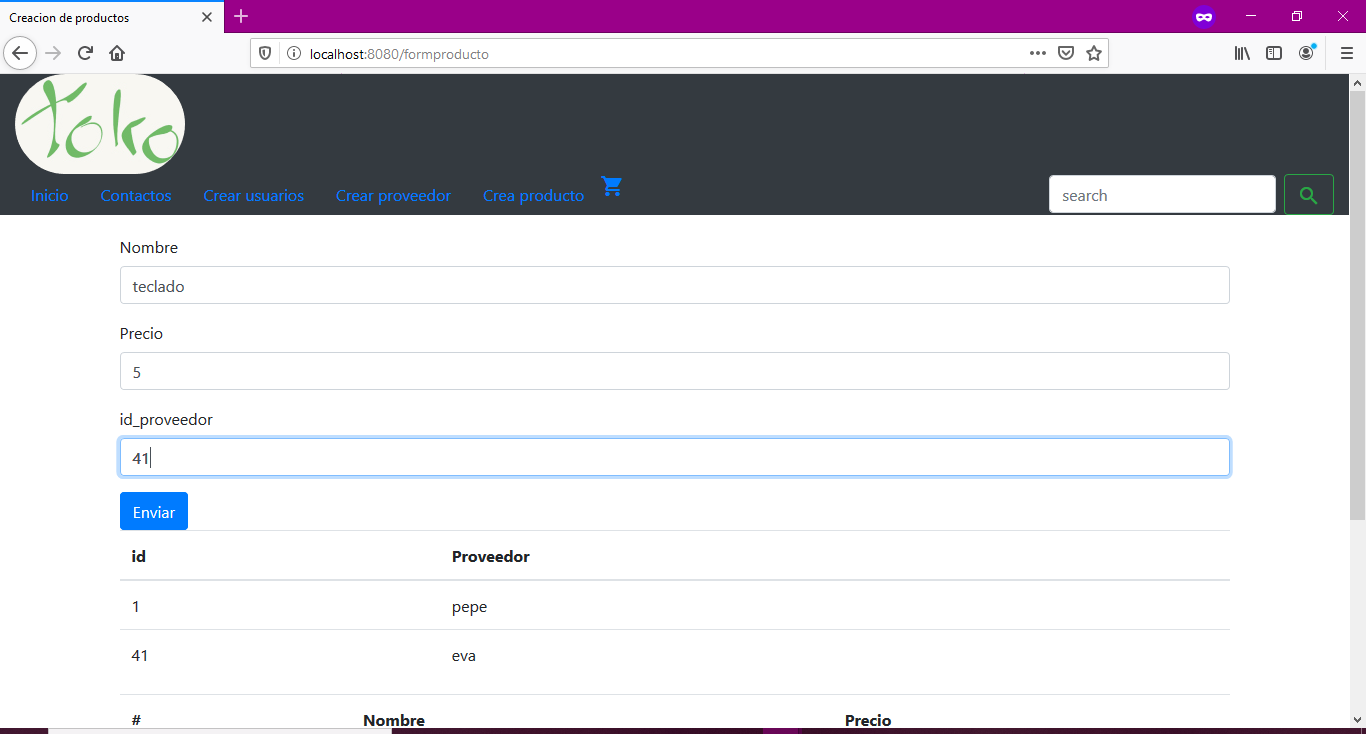
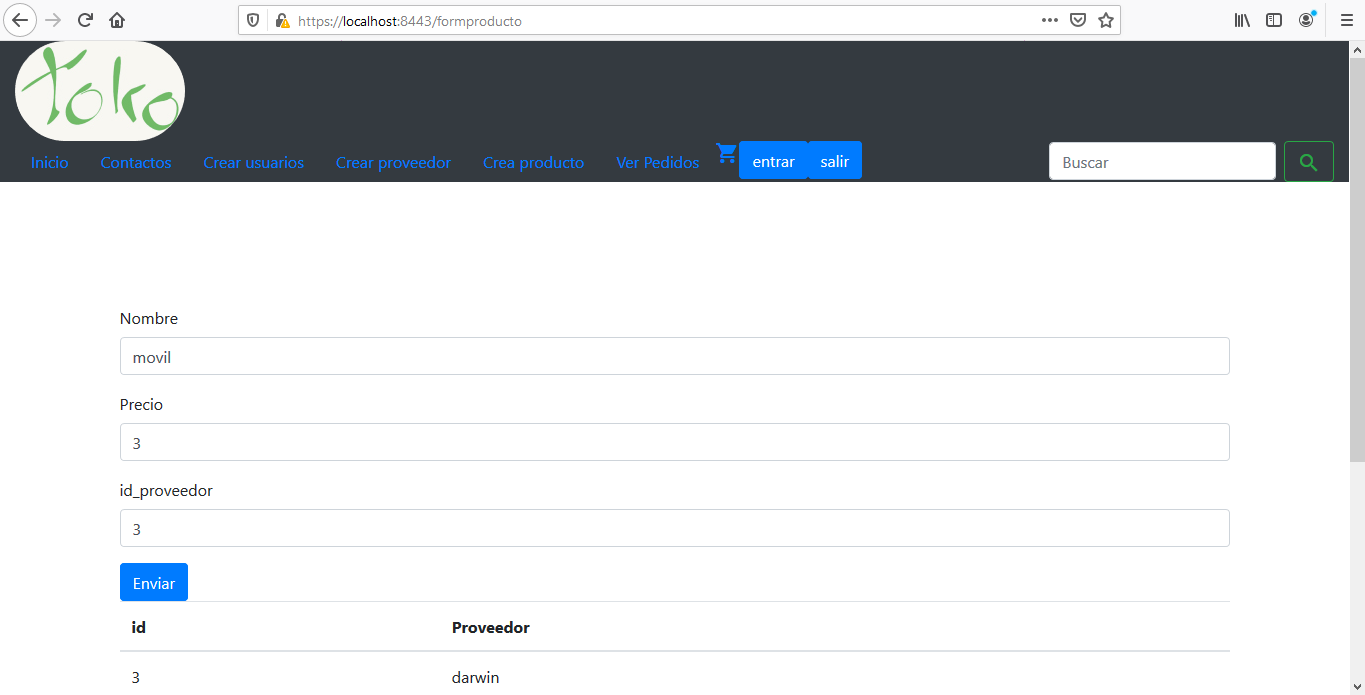
proveedor

diff --git a/README.md b/README.md
@@ -14,7 +14,7 @@ la compra si hay stock o debera esperar a que la empresa reciba el producto, per
 - Producto(público): Objetos disponibles para su compra y el stock de los mismos
 
 
-## Descripción del servicio interno.
+## *Descripción del servicio interno.*
 
 proceso de pago, pedido.
 **- Proceso de pago: En el momento de ultimar la compra y el usuario esta logueado, el servicio interno envia un correo al usuario, informandole del pedido. Con una factura en pdf.**
@@ -38,6 +38,7 @@ https://trello.com/b/QmLREBu5/practica-dad
 
 - Común a todas las vistas:
 **Las paginas tienen implementada seguridad CSRF de modo que si alguien intenta suplantarnos, no le llegue la informacion.**
+**En todas las paginas ha sido incluido un boton para entrar a la identificacion de usuario, y para salir de la misma**
 En todas las vistas se ve una barra de navegación arriba la cual está compuesta por una serie de botones y un buscador con su botón asociado.
 Se ve el logotipo de la empresa (toko), el cual te lleva al index al pulsarlo desde cualquier página.
 En orden de izquierda a derecha se ven los botones, y la vista a la que te llevan: Inicio(index), Contacto(contacto), crear usuario(crud), crear proveedor(crudproveedor), crear producto(crudproducto), un icono de un carrito(carrito).  y el botón de búsqueda(crudbusqueda). 
